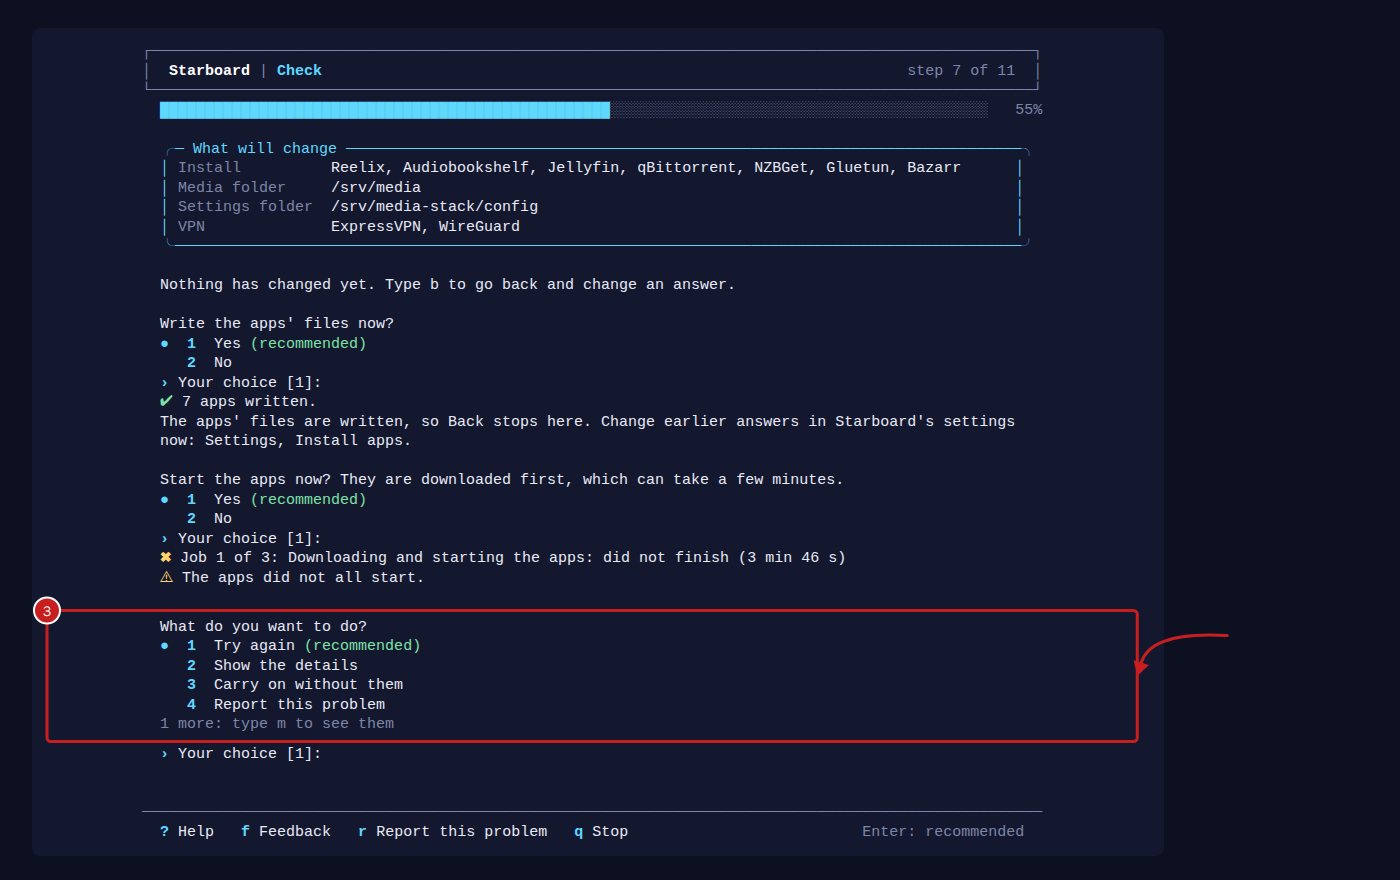
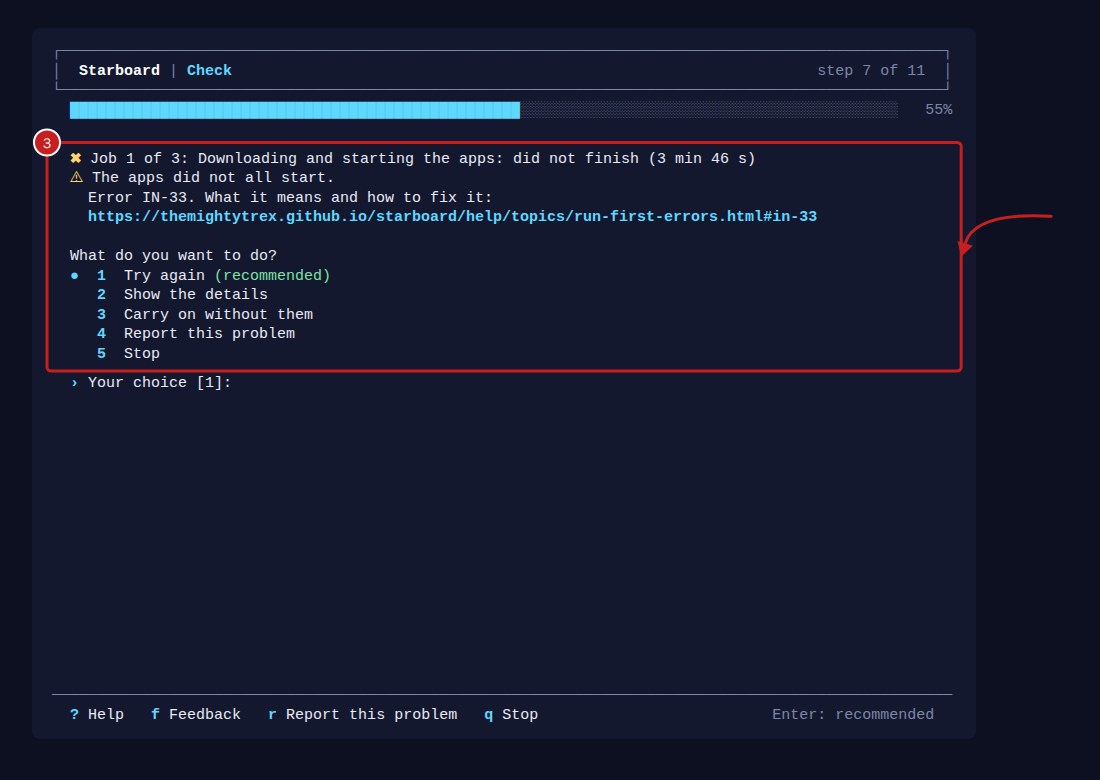
Help: Run first errors picture 3 shows a failed job's error number and help address

diff --git a/tools/screenshots/terminal/errors-choices.html b/tools/screenshots/terminal/errors-choices.html
@@ -9,4 +9,4 @@
   .l { min-height: 1.3em; }
   .t { display: inline-block; }
 </style>
-<div class="term"><div class="l">          <span class="t"><span style="color:#7d86a8">┌──────────────────────────────────────────────────────────────────────────────────────────────────┐</span><span style="">          </span></span></div><div class="l">          <span class="t"><span style="color:#7d86a8">│</span><span style="">  </span><span style="color:#fff;font-weight:700">Starboard</span><span style="color:#7d86a8"> | </span><span style="color:#5fd7ff;font-weight:700">Check</span><span style="">                                                                 </span><span style="color:#7d86a8">step 7 of 11</span><span style="">  </span><span style="color:#7d86a8">│</span><span style="">          </span></span></div><div class="l">          <span class="t"><span style="color:#7d86a8">└──────────────────────────────────────────────────────────────────────────────────────────────────┘</span><span style="">          </span></span></div><div class="l">            <span class="t"><span style="color:#5fd7ff">██████████████████████████████████████████████████</span><span style="color:#7d86a8">░░░░░░░░░░░░░░░░░░░░░░░░░░░░░░░░░░░░░░░░░░</span><span style="">  </span><span style="color:#7d86a8"> 55%</span><span style="">          </span></span></div><div class="l"></div><div class="l">            <span class="t"><span style="color:#5fd7ff">╭─ What will change ───────────────────────────────────────────────────────────────────────────╮</span><span style="">            </span></span></div><div class="l">            <span class="t"><span style="color:#5fd7ff">│</span><span style=""> </span><span style="color:#7d86a8">Install          </span><span style="">Reelix, Audiobookshelf, Jellyfin, qBittorrent, NZBGet, Gluetun, Bazarr      </span><span style="color:#5fd7ff">│</span><span style="">            </span></span></div><div class="l">            <span class="t"><span style="color:#5fd7ff">│</span><span style=""> </span><span style="color:#7d86a8">Media folder     </span><span style="">/srv/media                                                                  </span><span style="color:#5fd7ff">│</span><span style="">            </span></span></div><div class="l">            <span class="t"><span style="color:#5fd7ff">│</span><span style=""> </span><span style="color:#7d86a8">Settings folder  </span><span style="">/srv/media-stack/config                                                     </span><span style="color:#5fd7ff">│</span><span style="">            </span></span></div><div class="l">            <span class="t"><span style="color:#5fd7ff">│</span><span style=""> </span><span style="color:#7d86a8">VPN              </span><span style="">ExpressVPN, WireGuard                                                       </span><span style="color:#5fd7ff">│</span><span style="">            </span></span></div><div class="l">            <span class="t"><span style="color:#5fd7ff">╰──────────────────────────────────────────────────────────────────────────────────────────────╯</span><span style="">            </span></span></div><div class="l"></div><div class="l">            <span class="t"><span style="">Nothing has changed yet. Type b to go back and change an answer.                                            </span></span></div><div class="l"></div><div class="l">            <span class="t"><span style="">Write the apps&#x27; files now?                                                                                  </span></span></div><div class="l">            <span class="t"><span style="color:#5fd7ff;font-weight:700">●</span><span style=""> </span><span style="color:#5fd7ff;font-weight:700"> 1</span><span style="">  Yes </span><span style="color:#7ee2a8">(recommended)</span><span style="">                                                                                     </span></span></div><div class="l">               <span class="t"><span style="color:#5fd7ff;font-weight:700">2</span><span style="">  No                                                                                                    </span></span></div><div class="l">            <span class="t"><span style="color:#5fd7ff;font-weight:700">›</span><span style=""> Your choice [1]:                                                                                          </span></span></div><div class="l">            <span class="t"><span style="color:#7ee2a8">✔</span><span style=""> 7 apps written.                                                                                           </span></span></div><div class="l">            <span class="t"><span style="">The apps&#x27; files are written, so Back stops here. Change earlier answers in Starboard&#x27;s settings             </span></span></div><div class="l">            <span class="t"><span style="">now: Settings, Install apps.                                                                                </span></span></div><div class="l"></div><div class="l">            <span class="t"><span style="">Start the apps now? They are downloaded first, which can take a few minutes.                                </span></span></div><div class="l">            <span class="t"><span style="color:#5fd7ff;font-weight:700">●</span><span style=""> </span><span style="color:#5fd7ff;font-weight:700"> 1</span><span style="">  Yes </span><span style="color:#7ee2a8">(recommended)</span><span style="">                                                                                     </span></span></div><div class="l">               <span class="t"><span style="color:#5fd7ff;font-weight:700">2</span><span style="">  No                                                                                                    </span></span></div><div class="l">            <span class="t"><span style="color:#5fd7ff;font-weight:700">›</span><span style=""> Your choice [1]:                                                                                          </span></span></div><div class="l">            <span class="t"><span style="color:#ffd36b">✖</span><span style=""> Job 1 of 3: Downloading and starting the apps: did not finish (3 min 46 s)                                </span></span></div><div class="l">            <span class="t"><span style="color:#ffd36b">⚠</span><span style=""> The apps did not all start.                                                                               </span></span></div><div class="l"></div><div id="choices" style="display:inline-block;margin:8px 0;padding:2px 0"><div class="l">            <span class="t"><span style="">What do you want to do?                                                                                     </span></span></div><div class="l">            <span class="t"><span style="color:#5fd7ff;font-weight:700">●</span><span style=""> </span><span style="color:#5fd7ff;font-weight:700"> 1</span><span style="">  Try again </span><span style="color:#7ee2a8">(recommended)</span><span style="">                                                                               </span></span></div><div class="l">               <span class="t"><span style="color:#5fd7ff;font-weight:700">2</span><span style="">  Show the details                                                                                      </span></span></div><div class="l">               <span class="t"><span style="color:#5fd7ff;font-weight:700">3</span><span style="">  Carry on without them                                                                                 </span></span></div><div class="l">               <span class="t"><span style="color:#5fd7ff;font-weight:700">4</span><span style="">  Report this problem                                                                                   </span></span></div><div class="l">            <span class="t"><span style="color:#7d86a8">1 more: type m to see them</span><span style="">                                                                                  </span></span></div></div><div class="l">            <span class="t"><span style="color:#5fd7ff;font-weight:700">›</span><span style=""> Your choice [1]:                                                                                          </span></span></div><div class="l"></div><div class="l"></div><div class="l">          <span class="t"><span style="color:#7d86a8">────────────────────────────────────────────────────────────────────────────────────────────────────</span><span style="">          </span></span></div><div class="l">            <span class="t"><span style="color:#5fd7ff;font-weight:700">?</span><span style=""> Help   </span><span style="color:#5fd7ff;font-weight:700">f</span><span style=""> Feedback   </span><span style="color:#5fd7ff;font-weight:700">r</span><span style=""> Report this problem   </span><span style="color:#5fd7ff;font-weight:700">q</span><span style=""> Stop                          </span><span style="color:#7d86a8">Enter: recommended</span><span style="">            </span></span></div></div>
+<div class="term"><div class="l"><span class="t"><span style="color:#7d86a8">┌──────────────────────────────────────────────────────────────────────────────────────────────────┐</span></span></div><div class="l"><span class="t"><span style="color:#7d86a8">│</span><span style="">  </span><span style="color:#fff;font-weight:700">Starboard</span><span style="color:#7d86a8"> | </span><span style="color:#5fd7ff;font-weight:700">Check</span><span style="">                                                                 </span><span style="color:#7d86a8">step 7 of 11</span><span style="">  </span><span style="color:#7d86a8">│</span></span></div><div class="l"><span class="t"><span style="color:#7d86a8">└──────────────────────────────────────────────────────────────────────────────────────────────────┘</span></span></div><div class="l">  <span class="t"><span style="color:#5fd7ff">██████████████████████████████████████████████████</span><span style="color:#7d86a8">░░░░░░░░░░░░░░░░░░░░░░░░░░░░░░░░░░░░░░░░░░</span><span style="">  </span><span style="color:#7d86a8"> 55%</span></span></div><div class="l"></div><div id="choices" style="display:inline-block;margin:8px 0;padding:2px 0"><div class="l">  <span class="t"><span style="color:#ffd36b">✖</span><span style=""> Job 1 of 3: Downloading and starting the apps: did not finish (3 min 46 s)                      </span></span></div><div class="l">  <span class="t"><span style="color:#ffd36b">⚠</span><span style=""> The apps did not all start.                                                                     </span></span></div><div class="l">    <span class="t"><span style="">Error IN-33. What it means and how to fix it:                                                   </span></span></div><div class="l">    <span class="t"><span style="color:#5fd7ff;font-weight:700">https://themightytrex.github.io/starboard/help/topics/run-first-errors.html#in-33</span><span style="">               </span></span></div><div class="l"></div><div class="l">  <span class="t"><span style="">What do you want to do?                                                                           </span></span></div><div class="l">  <span class="t"><span style="color:#5fd7ff;font-weight:700">●</span><span style=""> </span><span style="color:#5fd7ff;font-weight:700"> 1</span><span style="">  Try again </span><span style="color:#7ee2a8">(recommended)</span><span style="">                                                                     </span></span></div><div class="l">     <span class="t"><span style="color:#5fd7ff;font-weight:700">2</span><span style="">  Show the details                                                                            </span></span></div><div class="l">     <span class="t"><span style="color:#5fd7ff;font-weight:700">3</span><span style="">  Carry on without them                                                                       </span></span></div><div class="l">     <span class="t"><span style="color:#5fd7ff;font-weight:700">4</span><span style="">  Report this problem                                                                         </span></span></div><div class="l">     <span class="t"><span style="color:#5fd7ff;font-weight:700">5</span><span style="">  Stop                                                                                        </span></span></div></div><div class="l">  <span class="t"><span style="color:#5fd7ff;font-weight:700">›</span><span style=""> Your choice [1]:                                                                                </span></span></div><div class="l"></div><div class="l"></div><div class="l"></div><div class="l"></div><div class="l"></div><div class="l"></div><div class="l"></div><div class="l"></div><div class="l"></div><div class="l"></div><div class="l"></div><div class="l"></div><div class="l"></div><div class="l"></div><div class="l"></div><div class="l"><span class="t"><span style="color:#7d86a8">────────────────────────────────────────────────────────────────────────────────────────────────────</span></span></div><div class="l">  <span class="t"><span style="color:#5fd7ff;font-weight:700">?</span><span style=""> Help   </span><span style="color:#5fd7ff;font-weight:700">f</span><span style=""> Feedback   </span><span style="color:#5fd7ff;font-weight:700">r</span><span style=""> Report this problem   </span><span style="color:#5fd7ff;font-weight:700">q</span><span style=""> Stop                          </span><span style="color:#7d86a8">Enter: recommended</span><span style="">  </span></span></div></div>

diff --git a/docs/help/topics/run-first-errors.md b/docs/help/topics/run-first-errors.md
@@ -26,7 +26,7 @@ where the log is, a file called `run-first.log` in a `starboard-run-first` folde
    number and the address of its help, as when it stops. Then it asks what to do: **Try again** is recommended. **Show the details** shows the last lines of the job's log, and **Report this problem** helps you send a
    report about it (read [Send feedback](send-feedback.md)).
 
-   ![A job that did not finish, with What do you want to do? and its answers (step 3) outlined](../images/run-first-errors-3-choices.png)
+   ![A job that did not finish, with its error number IN-33, the address of its help and What do you want to do? (step 3) outlined](../images/run-first-errors-3-choices.png)
 
 ## Before it starts
 
